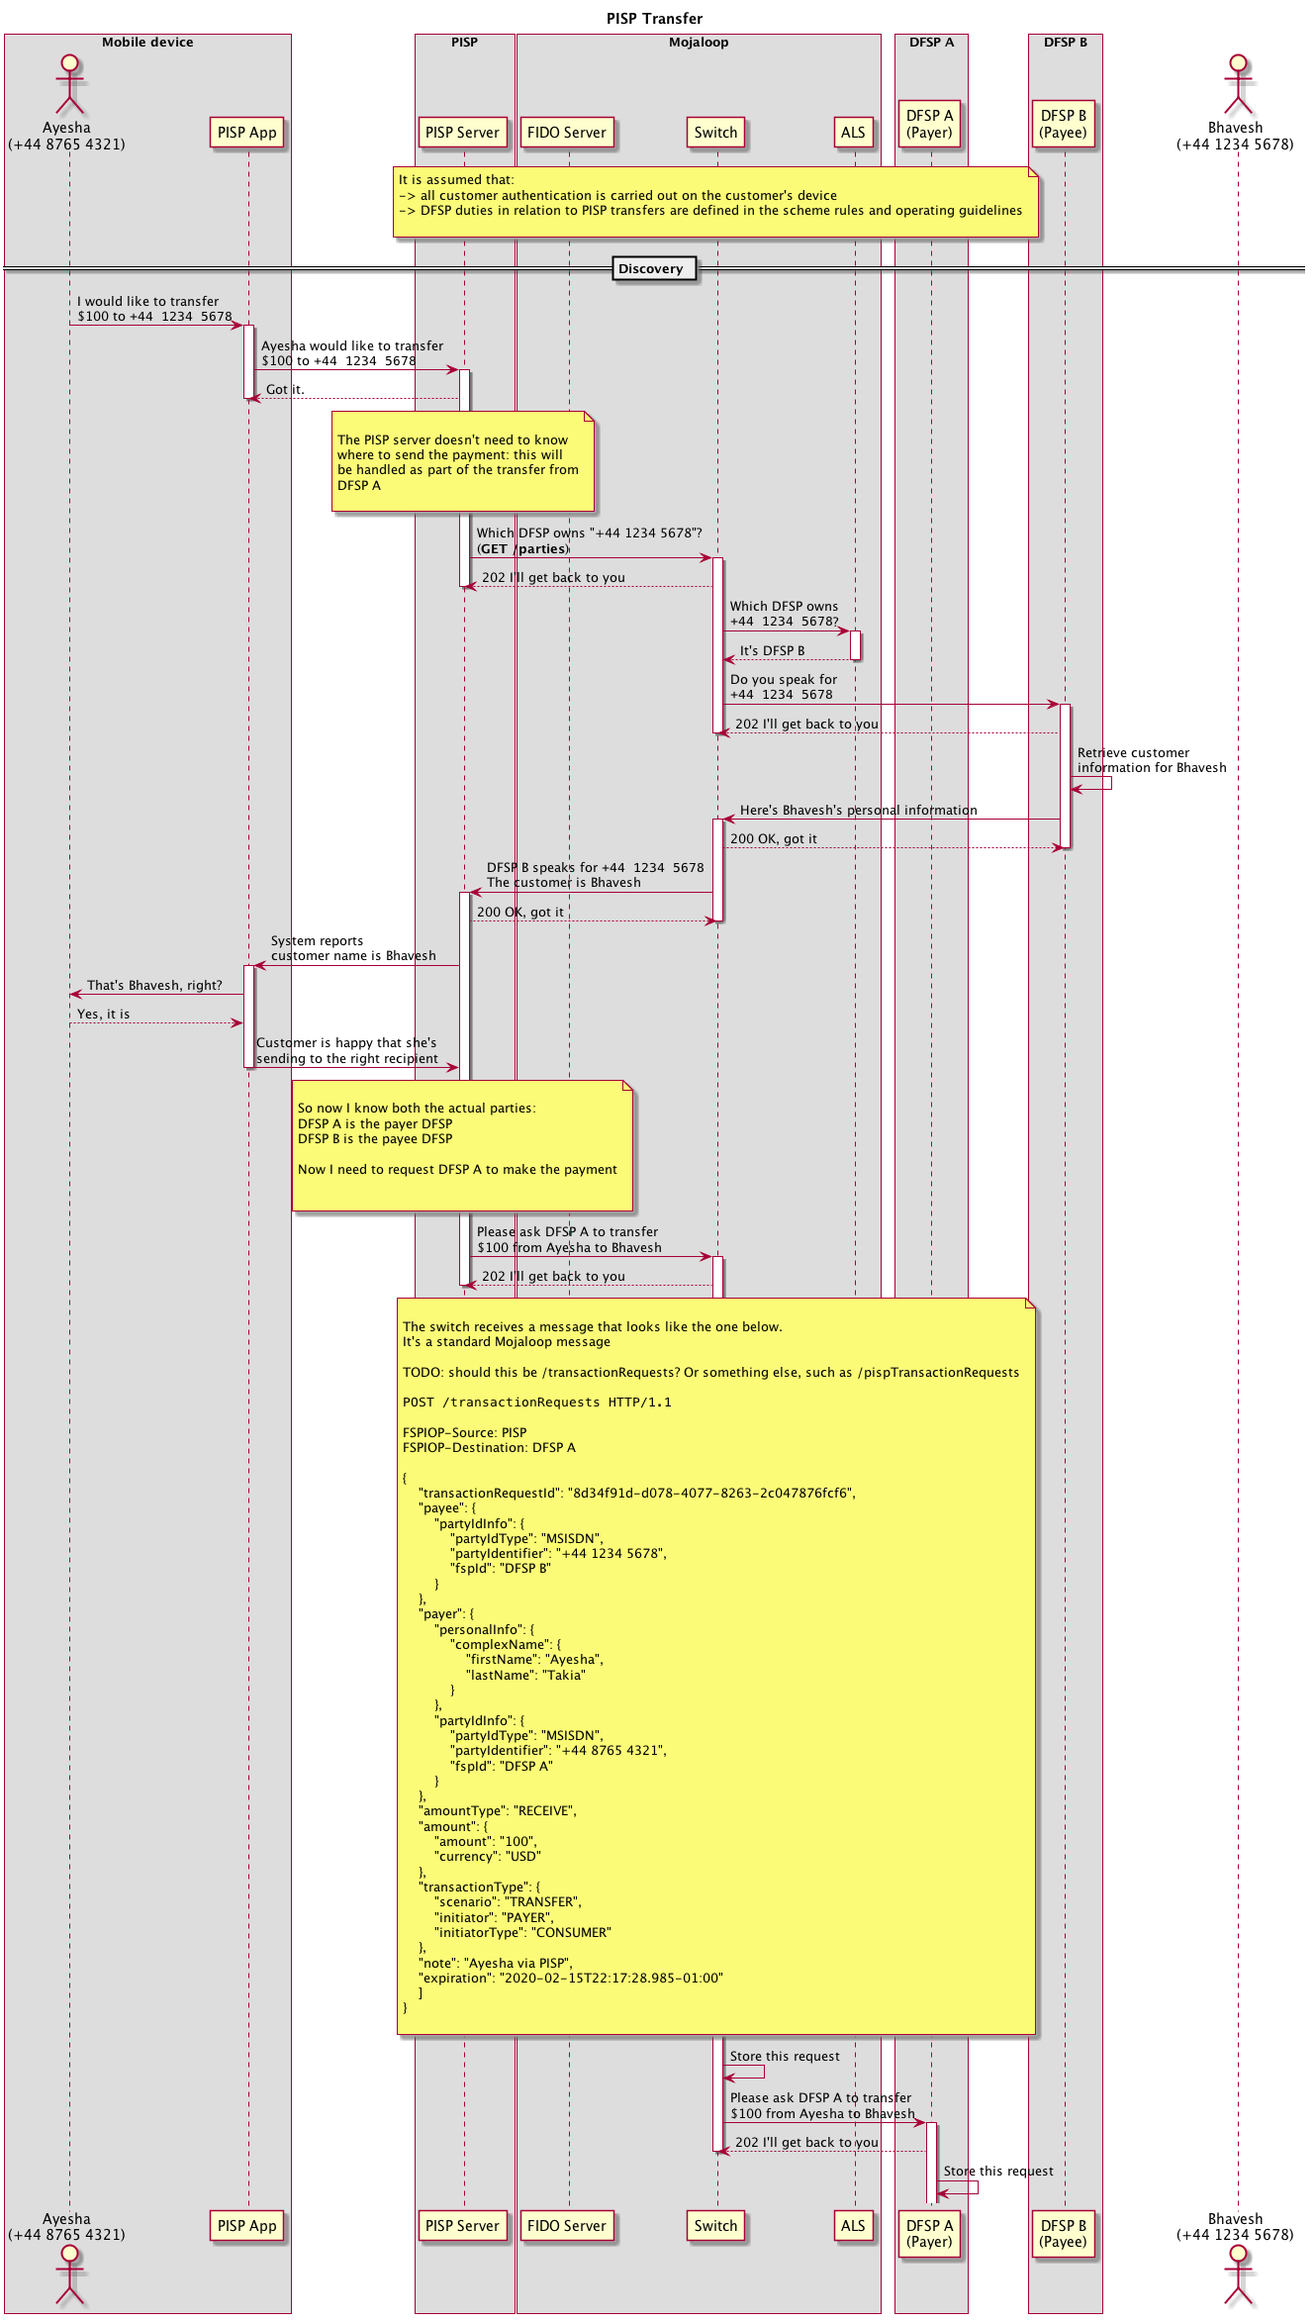
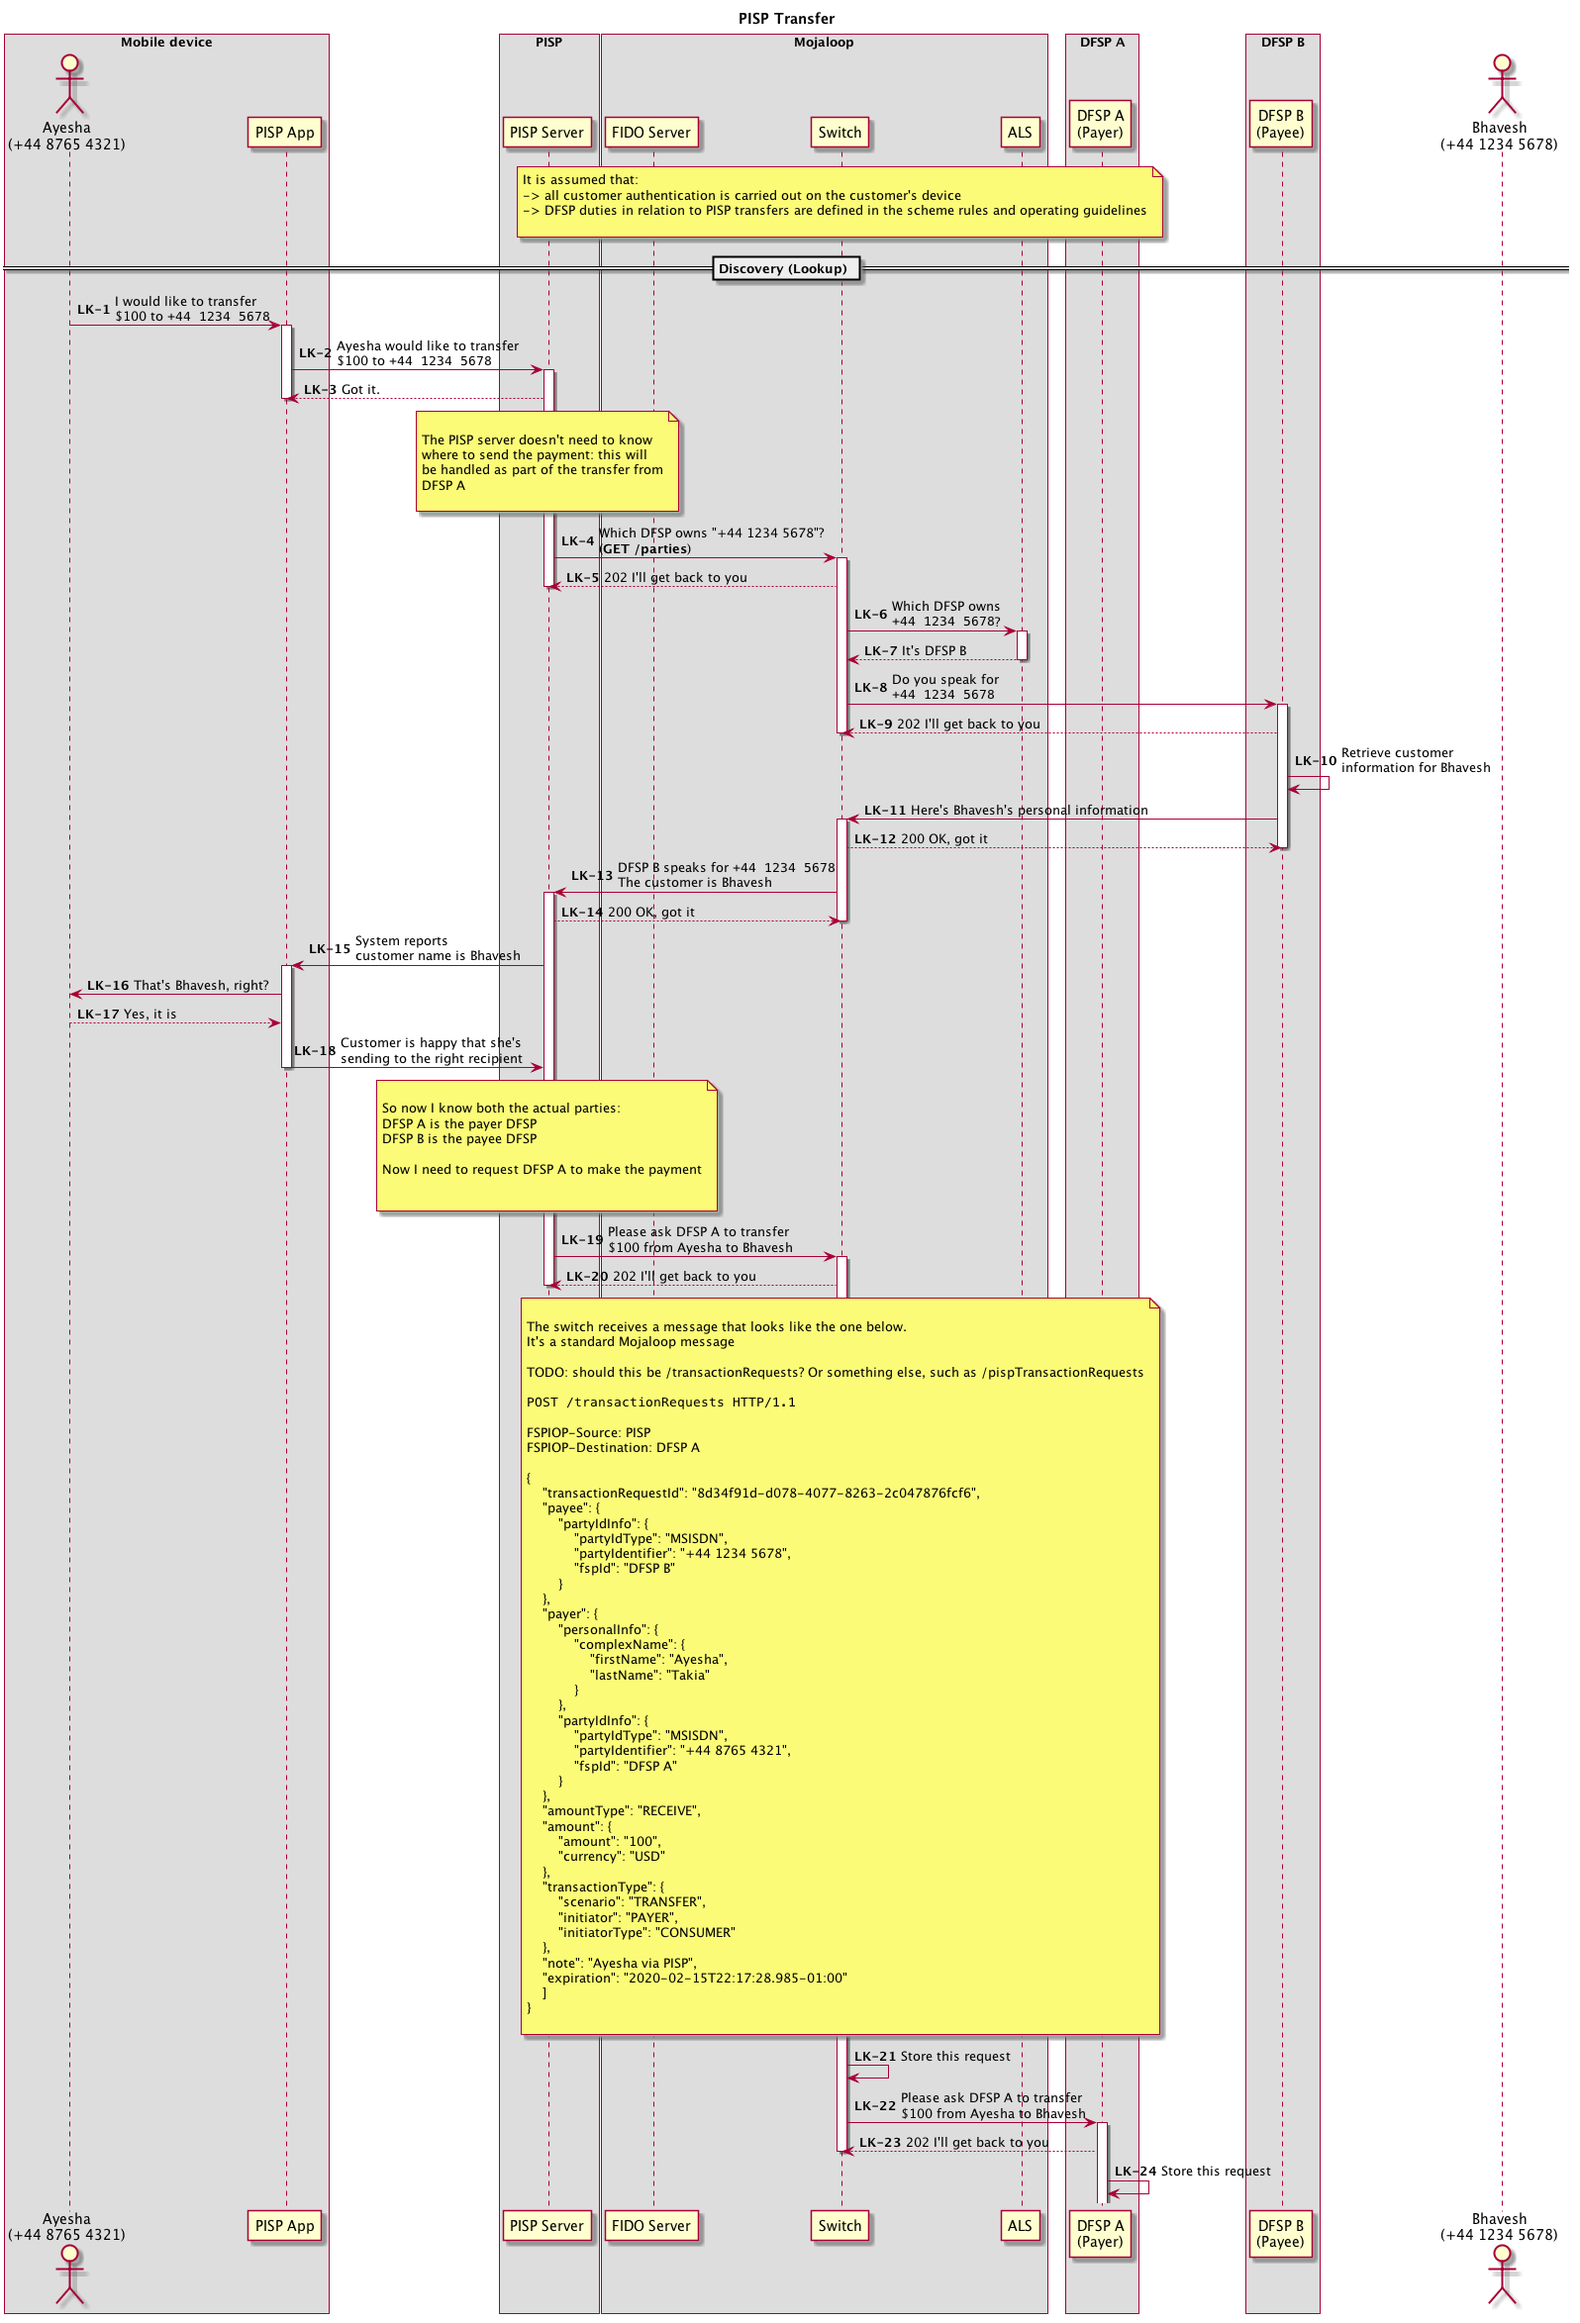
Add numbering to transfers, detail about endpoints for transfer flow

diff --git a/docs/roles_and_endpoints.md b/docs/roles_and_endpoints.md
@@ -37,6 +37,7 @@ A summary of Mojaloop FSPIOP API Endpoints and Roles as they stand today.
 | Retrieve Bulk Quote Information           | `GET`    | `/bulkQuotes/{ID}`           | ✅ | ❌ |   |
 | Calculate Bulk Quote                      | `POST`   | `/bulkQuotes`                | ✅ | ❌ |   |
 | Perform Authorization                     | `GET`    | `/authorizations/{ID}`       | ✅ | ❌ |   |
+| Update Authorization                      | `PUT`    | `/authorizations/{ID}`       | ✅ | ❌ |   |
 | Retrieve Transfer Information             | `GET`    | `/transfers/{ID}`            | ✅ | ❌ |   |
 | Perform Transfer                          | `POST`   | `/transfers`                 | ✅ | ❌ |   |
 | Retrieve Bulk Transfer Information        | `GET`    | `/bulkTransfers/{ID}`        | ✅ | ❌ |   |
@@ -48,7 +49,7 @@ A summary of Mojaloop FSPIOP API Endpoints and Roles as they stand today.
 | ---- | ------ | --------  | ---- | ---- | ---- |
 | Create Consent Request            | `POST` | `/consentRequests`                         | ❌ | ✅ |  | 
 | Update Consent Request            | `PUT`  | `/consentRequests/{ID}`                    | ✅ | ✅ | Based on our current designs, both a DFSP and PISP use this to callback to one another about the `consentRequest` | 
-| Perform Authorization             | `POST` | `/authorizations/{ID}`                     | ❌ | ✅ |  | 
+| Perform 3rd Party Authorization   | `POST` | `/authorizations`                          | ❌ | ✅ | PISP needs to call this with FIDO Result     | 
 | Create Consent                    | `PUT`  | `/consents/{ID}`                           | ✅ | ❌ | Called after a successful `consentRequest` flow | 
 | Lookup 3rd party Account Metadata | `GET`  | `/thirdPartyRequest/metadata/{Type}/{ID}*` | ❌ | ✅ | I've called this metadata but it could be something else, such as `balances` | 
 | Initiate 3rd party request        | `POST` | `/thirdPartyRequest/transaction`           | ❌ | ✅ |  | 
@@ -90,13 +91,14 @@ A summary of Mojaloop FSPIOP API Endpoints and Roles as they stand today.
 
 | Name | `VERB` | Resource  | DFSP | PISP | Note |
 | ---- | ------ | --------  | ---- | ---- | ---- |
-| Update Consent Request                     | `PUT` | `/consentRequests/{ID`                           | ✅ | ✅ |  | 
-| Update Consent Request Error               | `PUT` | `/consentRequests/{ID}/error`                    | ✅ | ✅ |  | 
-| Create Or Update Consent                   | `PUT` | `/consents/{ID}`                                 | ❌ | ✅ | Callback a PISP gets once `consentRequest` is successful |
-| Return 3rd party Account Metadata          | `PUT` | `/thirdPartyRequest/metadata/{Type}/{ID}*`       | ❌ | ✅ | I've called this metadata but it could be something else, such as `balances` | 
-| Return 3rd party Account Metadata Error    | `PUT` | `/thirdPartyRequest/metadata/{Type}/{ID}/error*` | ❌ | ✅ | I've called this metadata but it could be something else, such as `balances` | 
-| Update 3rd Party Transaction Request       | `PUT` | `/thirdPartyRequest/transaction/{ID}`            | ❌ | ✅ |  | 
-| Update 3rd Party Transaction Request Error | `PUT` | `/thirdPartyRequest/transaction/{ID}/error`      | ❌ | ✅ |  | 
+| Update Consent Request                     | `PUT`  | `/consentRequests/{ID`                           | ✅ | ✅ |  | 
+| Update Consent Request Error               | `PUT`  | `/consentRequests/{ID}/error`                    | ✅ | ✅ |  | 
+| Create Or Update Consent                   | `PUT`  | `/consents/{ID}`                                 | ❌ | ✅ | Callback a PISP gets once `consentRequest` is successful |
+| Return 3rd party Account Metadata          | `PUT`  | `/thirdPartyRequest/metadata/{Type}/{ID}*`       | ❌ | ✅ | I've called this metadata but it could be something else, such as `balances` | 
+| Return 3rd party Account Metadata Error    | `PUT`  | `/thirdPartyRequest/metadata/{Type}/{ID}/error*` | ❌ | ✅ | I've called this metadata but it could be something else, such as `balances` | 
+| Perform Authorization                      | `POST` | `/authorizations/`                               | ❌ | ✅ | Switch requests Authorization for `thirdPartyRequest` from PISP | 
+| Update 3rd Party Transaction Request       | `PUT`  | `/thirdPartyRequest/transaction/{ID}`            | ❌ | ✅ |  | 
+| Update 3rd Party Transaction Request Error | `PUT`  | `/thirdPartyRequest/transaction/{ID}/error`      | ❌ | ✅ |  | 
 
 > \* also:  `{Type}/{ID}/{SubId}`
 

diff --git a/docs/README.md b/docs/README.md
@@ -43,6 +43,42 @@ For the entire flows, see the [PISP Transfer model](./out/transfer/complete/PISP
 
 ![transfer](./out/transfer/3-transfer/PISP%20Transfer.png)
 
+> Note: I don't think `TR-1` and `TR-2` are valid any longer as we will be relying on the switch to initiate the `/thirdPartyRequest/transfer/{ID}` callback to the PISP to inform the PISP on the outcome of a transfer.
+
+
+#### Transfer - Endpoints 
+> Note: this could maybe move to a better place, but it's here for now.
+
+| ID      | VERB              | URI                                 | `Source` | `Destination`  |
+| ------- | ----------------- | ----------------------------------- | ---- | --- |
+| `LK-4`  | `GET`             | `/parties`                          | PISP   | SWITCH |
+| `LK-6`  | `GET`             | `/participants/{Type}/{ID}`         | SWITCH | ALS    |
+| `LK-8`  | `GET`             | `/parties/{Type}/{ID}`              | SWITCH | DFSPB  |
+| `LK-11` | `PUT`             | `/parties/{Type}/{ID}`              | DFSPB  | SWITCH |
+| `LK-13` | `PUT`             | `/parties/{Type}/{ID}`              | SWITCH | PISP   |
+| `LK-19` | `POST`            | `/thirdPartyRequest/transfer`*0     | PISP   | SWITCH |
+| `LK-22` | `POST`            | `/transactionRequests`*1            | PISP   | SWITCH |
+| `AG-1`  | `POST`            | `/quotes`                           | DFSPA  | SWITCH |
+| `AG-3`  | `POST`            | `/quotes`                           | SWITCH | DFSPB  |
+| `AG-6`  | `PUT`             | `/quotes/{ID}`                      | SWITCH | DFSPB  |
+| `AG-8`  | `PUT`             | `/quotes/{ID}`                      | SWITCH | DFSPA  |
+| `AG-15` | `GET`             | `/authorizations/{ID}`              | DFSPA  | SWITCH |
+| `AG-17` | `POST`            | `/authorizations`*2                 | SWITCH | PISP   |
+| `AG-26` | `POST`            | `/authorizations`                   | PISP   | SWITCH |
+| `AG-28` | `GET`             | `/endpoints/FIDO/{ID}`              | SWITCH | ALS?   |
+| `AG-30` | `POST`            | `/performVerification`*3           | SWITCH | FIDO   |
+| `AG-32` | `PUT`             | `/verificationResult/{ID}`*4      | FIDO   | SWITCH |
+| `AG-34` | `PUT`             | `/authorizations/{ID}`              | SWITCH | DFSPA  |
+| `TR-2`  | `PUT`             | `/transfers`*5                   | DFSPA  | SWITCH |
+| `TR-4`  | `PUT`             | `/thirdPartyRequest/transfer/{ID}`  | SWITCH | PISP   |
+
+
+> 0. As discussed, for now we will implement this as the existing `/transactionRequest`
+> 1. This is something we haven't talked about yet. Does a `/thirdPartyRequest/transfer` to the switch create a `TransactionRequest`? Or will the DFSP need to implement a new callback for `/thirdPartyRequest/transfer`?
+> 2. A new VERB for authorizations for the PISP use case
+> 3. Do we want the FIDO server to be synchronous? I think not because it could be externally hosted in the future, but open for debate.
+> 4. These resource names are up for debate
+> 5. This may be outdated. See note above.
 
 ## Tools
 
